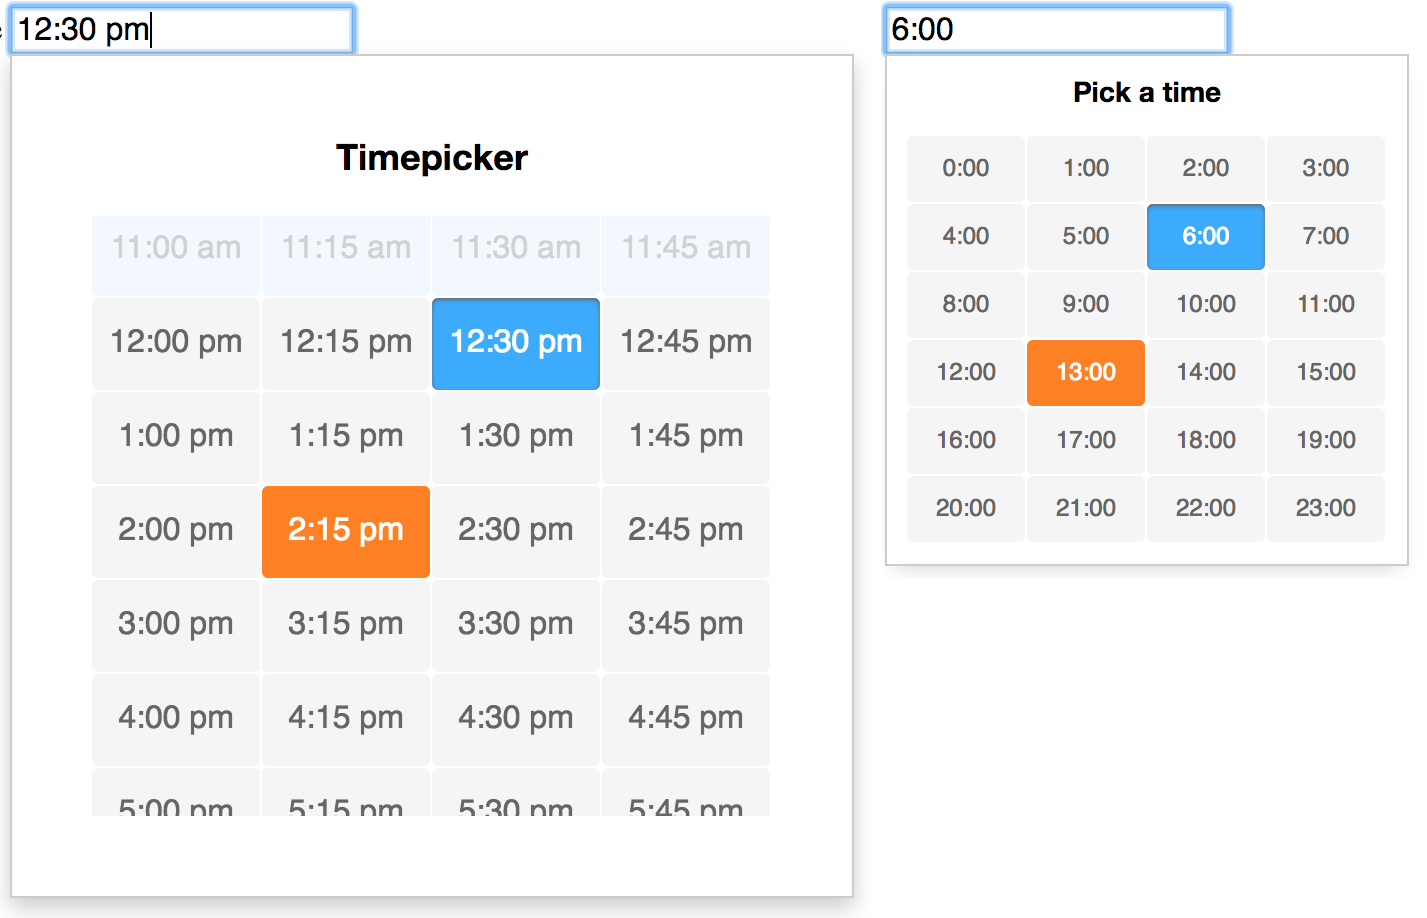
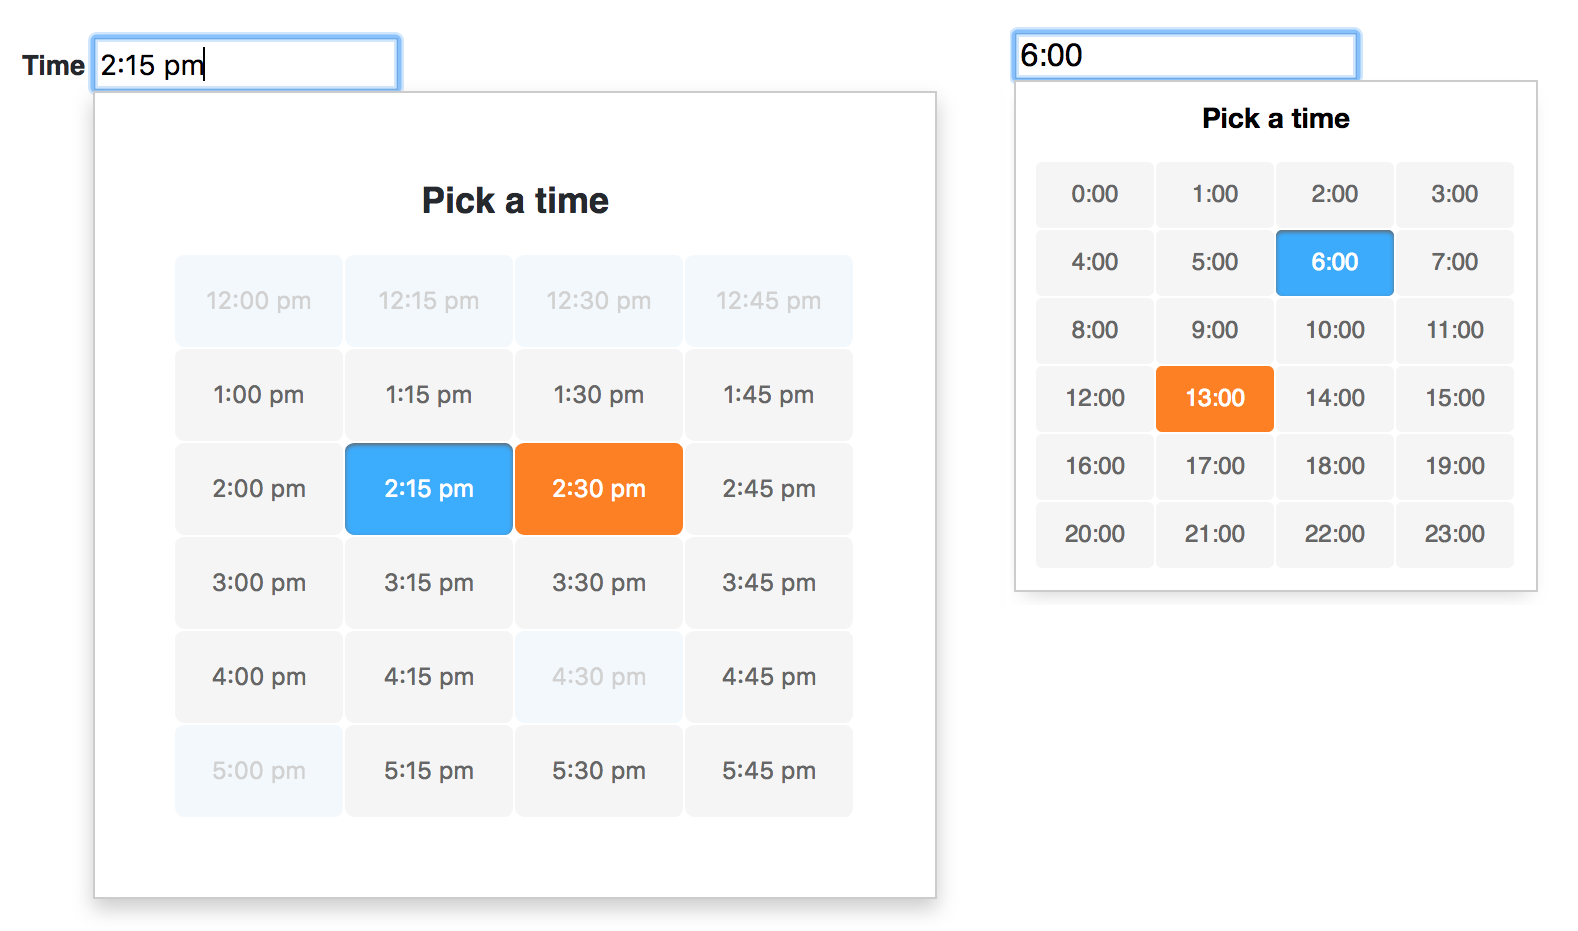
Prepare for npm package 1.0.0, update package.json, update links, add min.js

diff --git a/js/appointment-picker.min.js b/js/appointment-picker.min.js
@@ -1,0 +1,1 @@
+!function(e,t){"object"==typeof exports?module.exports=t(e):"function"==typeof define&&define.amd?define("appointment-picker",[],function(){return t(e)}):e.AppointmentPicker=t(e)}(this,function(e){"use strict";function t(e,t,i){for(var n in i)e.options[n]=i[n];if(e.el){if(void 0!==e.el.length)return void console.warn("appointment-picker: pass only one dom element as argument");if(e.options.interval>60)return void console.warn("appointment-picker: the maximal interval is 60");e.options.disabled.forEach(function(t,i){e.disabledArr[i]=s(e.options.disabled[i])});for(var r=0;r<60/e.options.interval;r++)e.intervals[r]=r*e.options.interval;e.options["static"]?(e.picker=e.build(),e.picker.classList.add("is-position-static"),e.picker.addEventListener("click",e.selectionEventFn),e.isInDom=!0):t.addEventListener("focus",e.openEventFn),e.setTime(e.el.value),t.addEventListener("keyup",e.keyEventFn),t.addEventListener("change",e.changeEventFn)}}function i(e,t,i,n,s){var r=!1;return e<i.minTime||e>i.maxTime||e>24?(console.log("hour out of min/max",e,i.minTime,"/",i.maxTime),!1):n.indexOf(t)<0?(console.log("minutes not matching interval",t),!1):(s.forEach(function(i,n){i.h===e&&i.m===t&&(r=!0)}),r?!1:!0)}function n(e){return/^[0-9]{1}$/.test(e)?"0"+e:e}function s(e){var t,i=e.match(/^([\d]{1,2}):([\d]{2})[\s]*([ap][m])?.*$/);return i?(t="pm"===i[3]&&"12"!==i[1]?Number(i[1])+12:"am"===i[3]&&"12"===i[1]?0:i[1],{h:Number(t),m:Number(i[2])}):void 0}function r(e,t,i,s){var r=e;return s&&(e>12?r=e-12:0==e&&(r=12),i=i.replace(12>e?"p":"a","")),i.replace("H",r).replace("M",n(t))}function o(e,t){if(!e)return null;var i=0>t?e.previousElementSibling:e.nextElementSibling;return i&&i.className.indexOf("disabled")<0?i:o(i,t)}function a(e,t,n,s){for(var o=e.startTime,a=e.endTime,l="",c="12h"===e.mode,p=c?t.time12:t.time24,h=o;a>h;h++)for(var d=0;d<n.length;d++){var m=n[d],u=!i(h,m,e,n,s),v=r(h,m,p,c);l+=t.inner.replace("{{time}}",v).replace(/{{disabled}}/gi,u?"disabled":"")}return t.outer.replace("{{classes}}",e.large?"is-large":"").replace("{{title}}",e.title).replace("{{innerHtml}}",l)}var l=function(e,i){this.options={interval:60,minTime:0,maxTime:24,startTime:0,endTime:24,disabled:[],mode:"24h",large:!1,"static":!1,title:"Pick a time"},this.template={inner:'<li class="appo-picker-list-item {{disabled}}"><input type="button" tabindex="-1" value="{{time}}" {{disabled}}></li>',outer:'<span class="appo-picker-title">{{title}}</span><ul class="appo-picker-list">{{innerHtml}}</ul>',time12:"H:M apm",time24:"H:M"},this.el=e,this.picker=null,this.isOpen=!1,this.isInDom=!1,this.time={},this.intervals=[],this.disabledArr=[],this.displayTime="",this.selectionEventFn=this.select.bind(this),this.changeEventFn=this.onchange.bind(this),this.closeEventFn=this.close.bind(this),this.openEventFn=this.open.bind(this),this.keyEventFn=this.onKeyPress.bind(this),this.tabKeyUpEventFn=this.onTabKeyUp.bind(this),t(this,e,i||{})};return l.prototype.render=function(){if(this.isOpen){var e=this.el.offsetTop+this.el.offsetHeight,t=this.el.offsetLeft,i=this.picker.querySelector("input.is-selected");if(this.picker.classList.add("is-open"),i&&i.classList.remove("is-selected"),this.time.hasOwnProperty("h")){var n=this.picker.querySelector('[value="'+this.displayTime+'"]');n&&n.classList.add("is-selected")}this.picker.style.top=e+"px",this.picker.style.left=t+"px"}else this.picker.classList.remove("is-open")},l.prototype.open=function(e){if(!this.isOpen){this.isInDom||(this.picker=this.build(),this.isInDom=!0),this.isOpen=!0,this.render(),this.picker.addEventListener("click",this.selectionEventFn),this.picker.addEventListener("keyup",this.keyEventFn);var t=this;setTimeout(function(){document.body.addEventListener("click",t.closeEventFn),document.body.addEventListener("focus",t.tabKeyUpEventFn,!0)},100)}},l.prototype.close=function(e){if(this.isOpen){if(Element.prototype.matches||(Element.prototype.matches=Element.prototype.msMatchesSelector||Element.prototype.webkitMatchesSelector),e)for(var t=e.target;t;){if(t.matches(".appo-picker"))return;t=t.parentElement}this.isOpen=!1,this.render(),this.picker.removeEventListener("click",this.selectionEventFn),this.picker.removeEventListener("keyup",this.keyEventFn),document.body.removeEventListener("click",this.closeEventFn),document.body.removeEventListener("focus",this.tabKeyUpEventFn,!0)}},l.prototype.select=function(e){var t=this;e.target.value&&(this.setTime(e.target.value),this.el.focus(),setTimeout(function(){t.close(null)},100))},l.prototype.onchange=function(e){this.setTime(this.el.value)},l.prototype.onKeyPress=function(e){var t=this.picker.querySelector('input[type="button"]:not([disabled])'),i=this.picker.querySelector("input.is-selected"),n=null;switch(e.keyCode){case 13:case 27:this.close(null);break;case 38:n=i?o(i.parentNode,-1):t.parentNode;break;case 40:n=i?o(i.parentNode,1):t.parentNode}n&&!n.firstChild.disabled&&(n.firstChild.classList.add("is-selected"),i&&i.classList.remove("is-selected"),this.setTime(n.firstChild.value))},l.prototype.onTabKeyUp=function(e){this.isOpen&&this.close(e)},l.prototype.build=function(){var e=document.createElement("div");return e.innerHTML=a(this.options,this.template,this.intervals,this.disabledArr),e.className="appo-picker"+(this.options.large?" is-large":""),e.setAttribute("aria-hidden",!0),this.el.insertAdjacentElement("afterend",e),e},l.prototype.destroy=function(){this.close(null),this.picker&&(this.picker.parentNode.removeChild(this.picker),this.picker=null),this.el.removeEventListener("focus",this.openEventFn),this.el.removeEventListener("keyup",this.keyEventFn),this.el.removeEventListener("change",this.changeEventFn)},l.prototype.setTime=function(e){var t=s(e),n="24h"===this.options.mode,o=n?this.template.time24:this.template.time12;if(t||e){if(t){var a=t.h,l=t.m,c=i(a,l,this.options,this.intervals,this.disabledArr);if(c){this.time=t,this.displayTime=r(this.time.h,this.time.m,o,!n);var p=document.createEvent("Event");p.initEvent("change.appo.picker",!0,!0),p.time=this.time,this.el.dispatchEvent(p)}}}else console.log("empty string"),this.time={},this.displayTime="";this.el.value=this.displayTime},l.prototype.getTime=function(){return this.time},l});

diff --git a/index.html b/index.html
@@ -106,11 +106,11 @@ new AppointmentPicker(document.getElementById('time-4'), {
 		});
 
 		new AppointmentPicker(document.getElementById('time-4'), {
-			interval: 30,
+			interval: 15,
 			mode: '12h',
-			startTime: 10,
+			startTime: 12,
 			endTime: 18,
-			minTime: 11,
+			minTime: 13,
 			maxTime: 18,
 			disabled: ['4:30 pm', '5:00 pm'],
 			large: true

diff --git a/example/exposed-functions.html b/example/exposed-functions.html
@@ -120,8 +120,9 @@ $('#remove-1').on('click', function() {
 				});
 			</script>
 		</p>
+		
+		<p><small>Copyright Jan Suwart, MIT license</small></p>
 	</article>
 
-	<p><small>Copyright Jan Suwart, MIT license</small></p>
 	</body>
 </html>

diff --git a/example/render-on-init.html b/example/render-on-init.html
@@ -54,8 +54,9 @@
 				title: 'Available Appointments'
 			});
 		</script>
+
+		<p><small>Copyright Jan Suwart, MIT license</small></p>
 	</article>
 
-	<p><small>Copyright Jan Suwart, MIT license</small></p>
 	</body>
 </html>

diff --git a/css/appointment-picker.css b/css/appointment-picker.css
@@ -1,5 +1,5 @@
 /*
- * appointment-picker.css v0.3.0 | MIT License | github.com/jannicz/appointment-picker
+ * appointment-picker.css 1.0.0 | MIT License | github.com/jannicz/appointment-picker
  */
 
 /* Default variation */

diff --git a/js/appointment-picker.js b/js/appointment-picker.js
@@ -2,7 +2,7 @@
  * Appointment-Picker - a lightweight, accessible and customizable timepicker
  *
  * @module Appointment-Picker
- * @version 0.4.0
+ * @version 1.0.0
  *
  * @author Jan Suwart
 */

diff --git a/example/form-submit.html b/example/form-submit.html
@@ -35,8 +35,9 @@
 			});
 		</script>
 	</form>
-	</article>
 
 	<p><small>Copyright Jan Suwart, MIT license</small></p>
+	</article>
+
 	</body>
 </html>

diff --git a/README.md b/README.md
@@ -13,7 +13,9 @@ A lightweight, accessible and customizable javascript timepicker. Accessibility 
   <strong>See Appointment-Picker Demo and Examples</strong>
 </a>
 
-<img src="https://github.com/jannicz/appointment-picker/blob/develop/example/appointment-picker-large.png" width="500" alt=""/>
+<p>
+  <img src="example/appointment-picker-large.png" width="550" alt=""/>
+</p>
 
 ## Usage
 Import both the stylesheet and the script
@@ -52,7 +54,7 @@ var picker = new AppointmentPicker(document.getElementById('time-2'), {});
 
 ## Options
 The appointment-picker can be configured with options
-- `interval` sets the interval between appointments in minutes (1-60), if this number gets lower (more possible appointments) the picker will get longer
+- `interval` sets the interval between appointments in minutes (`1-60`), if this number gets lower (more possible appointments) the picker will get longer
 - `mode` the picker can be used in standard `24h` hour mode or in `12h` mode - the latter uses am/pm postfix
 - `minTime` sets the minimum hour that can be picked, default is `0` what is eqivalent to 12am
 - `maxTime` sets the maximum hour that can be picked, default is `24`
@@ -152,7 +154,7 @@ if (typeof exports === 'object') {
 
 You can combine this timepicker plugin with PikaDay to have a date time pair combo with similar look & feel:
 
-<img src="https://github.com/jannicz/appointment-picker/blob/develop/example/appointment-pikaday.png" width="400" />
+<img src="example/appointment-pikaday.png" width="400" />
 
 Link to Pikaday: https://github.com/dbushell/Pikaday
 
